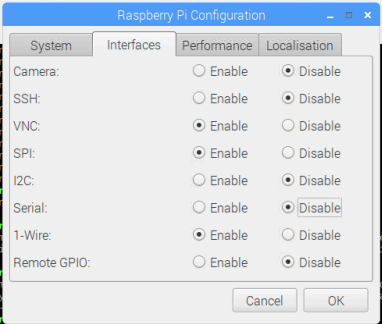
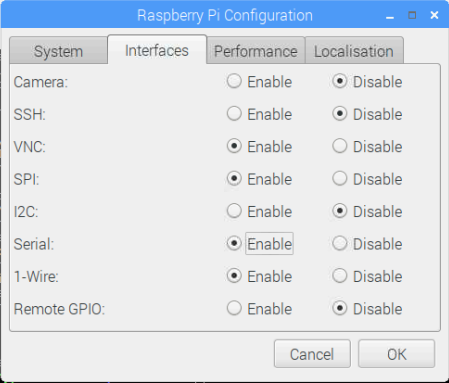
Updated docs

diff --git a/RPI/README.md b/RPI/README.md
@@ -1,15 +1,27 @@
 ## Preparations:
 
+### Read up!
+
+Read the documents in the F' repo as described in the [README](../README.md) to get an understanding of the architecture.
+
 ### Board Preparation
+
+This demo was developed on a Raspberry Pi 2 model B.
 
 1. From RPI configuration menu:
 
  * Enable SPI
- * Disable UART
+ * Enable UART
  
- ![`Raspberry Pi Config` Diagram](img/pi_cfg.png "Pi Config")
+ ![`Raspberry Pi Config`](img/pi_cfg.png "Pi Config")
  
-2. In order to see results via loopback, connect:
+2. Disable use of the UART for the Linux console:
+
+[Disable UART](https://www.raspberrypi.org/documentation/configuration/uart.md)
+
+If the UART port is not set up correctly, there will be a file open error.
+ 
+3. In order to see results via loopback, connect:
 
 |Pin 1|Pin 2|Signal|
 |---|---|---|
@@ -47,12 +59,49 @@ The build should run to completion. This will take a few minutes.
 
 This will start the software itself in a window and start the ground system. The application window appears like this:
 
+![`Application Window`](img/app.png "App")
+
+The ground system window appears like this:
+
+![`Ground System`](img/gse.png "Gse")
+
+
 7. Run some commands:
 
+Click on the `Commands` tab and drop down the `Cmds` list to see a list of available commands. There are some infrastructure commands, but for the purpose of this demo you can use the Raspberry Pi demo component commands:
 
+|Command|Function|Notes|
+|---|---|---|
+|RD_SendString|Sends a string on the UART|Loops back to an event if wired. See `Log Events` tab.|
+|RD_SendSpi|Sends a string on the SPI|Loops back to an event if wired. See `Log Events` tab.|
+|RD_SendSpi|Sends a string on the SPI|Loops back to an event if wired. See `Log Events` tab.|
+|RD_SetGpio|Sets a GPIO value|Loops back to GPIO based on the loopback table.|
+|RD_GetGpio|Gets a GPIO value|Reads back from GPIO based on the loopback table. The value can be seen in an event in the `Log Events` tab|
+|RD_SetLed|Turns blinking LED on or off|
+|RD_SetLedDivider|Sets LED blink rate. Rate is 10Hz/argument|
 
+8. Look at channelized telemetry and events
 
-Some tips:
+The telemetry in the system can be seen in the `Channel Telemetry` tab. The values update once per second. You can see various values updated by the demonstration component.
+
+`Log Events` are asynchronous messages that indicate events have happened in the system. As you exercise the `RD`commands, you should see messages appear indicating what is happening in the system.
+
+9. Use parameters
+
+Parameters are values that are stored on disk for subsequent executions of the software. The demo has one parameter that is used to set the start up state of the LED to blinking or not blinking. To change the value, invoke the `RD_PRMLEDINITSTATE_PRM_SET` command with the new value. Then invoke `RD_PRMLEDINITSTATE_PRM_SAVE` to save the value to the RAM value in `Svc/PrmDb`. Sending the command `PRM_SAVE_FILE` will then save the value from RAM to disk. The next time you start the software, you can see the new value in operation.
+
+10. Exit the software
+
+The demo can be exited by clicking on the window exit button or by choosing `File` then `Exit.`
+
+11. Things to look at
+
+The demo consists of a single component along with all the infrastructure components that are part of the repository. The demo component can be found in `RPI/RpiDemo`. The topology for the demo can be found in `RPI/Top`. That directory contains the program `main()` as well as the topology XML (`RPITopologyAppAi.xml`). You can modify and reuse the demo component, or you can create a whole series of interconnected components to do a project. Developers are encouraged to fork the repo to add functionality to the basic demo to enable whatever projects they have in mind.
+
+12. Some tips:
+
+ * If you have defined some component XML, you can generate an empty implementation class by typing `make impl`. 
+ * If you would like to know how many lines of code you have, you can type `make sloc` in the component directory or `make RASPIAN_sloc` in the `RPI` deployment directory.
  * If your app crashes and the app window disappears, standard output is in `RPI/RPI.log`.
  * You can see the telemetry and events in `RPI/logs/<date>/channel/Channel.log` and `RPI/logs/<date>/event/Event.log` respectively.
  * Sometimes you see the error:

diff --git a/README.md b/README.md
@@ -15,3 +15,7 @@ Documentation for the Reference example can be found [here.](Ref/docs/sdd.md)
 Release 1.01
 
 Updated contributor list. No code changes. 
+
+Release 1.1
+
+Created a Raspberry Pi demo. Read about it [here.](RPI/README.md)
